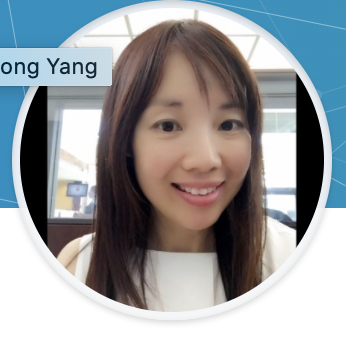
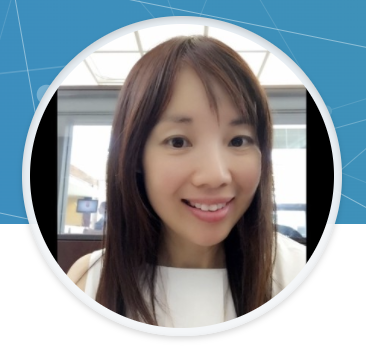
fixed header tabs on ‘accessibility ratings’ page, embeded demo video in the homepage, and replaced Hong’s profile pic

diff --git a/html/zipcode.html b/html/zipcode.html
@@ -10,10 +10,10 @@
 <body>
   <div class="active" id="navbar">
     <a href="index.html">HOME</a>
-    <a href="http://ec2-54-183-149-77.us-west-1.compute.amazonaws.com:3001/">AccessiPark MAP</a>
-    <a href="zipcode.html">ZIPCODE ANALYSIS</a>
+    <a href="http://ec2-54-183-149-77.us-west-1.compute.amazonaws.com:3001/">AccessiPark Denver</a>
     <!--a href="userguide.html">USER GUIDE</a-->
     <a href="methodology.html">METHODOLOGY</a>
+    <a href="zipcode.html">ACCESSIBILITY RATINGS</a>
     <a href="aboutus.html">ABOUT US</a>
     <!--a href="contact.html">CONTACT US</a-->
   </div>

diff --git a/html/index.html b/html/index.html
@@ -29,6 +29,8 @@
           <h1 style="font-size:50px; color:white;text-shadow: 2px 2px 3px darkgrey;">AccessiPark</h1>
           <h2 style="font-size:30px; color:white;text-shadow: 2px 2px 3px darkgrey;">UC Berkeley MIDS Capstone Project - Summer 2020</h2>
           <h2 style="color:white;text-shadow: 2px 2px 3px darkgrey;">Michelle Sun, Rachael Burns, Hong Yang, Richard Ryu</h2>
+          <iframe src="https://player.vimeo.com/video/442143817" width="640" height="564" frameborder="0" allow="autoplay; fullscreen" allowfullscreen></iframe>
+
          </div>
   </div>
 

diff --git a/html/mystyle.css b/html/mystyle.css
@@ -86,7 +86,7 @@ body {
   position: absolute;
   padding: 50px;
   text-align: left;
-  top: 30%;
+  top: 5%;
   left: 5%;
   /*transform: translate(-50%, -50%);*/
 }
